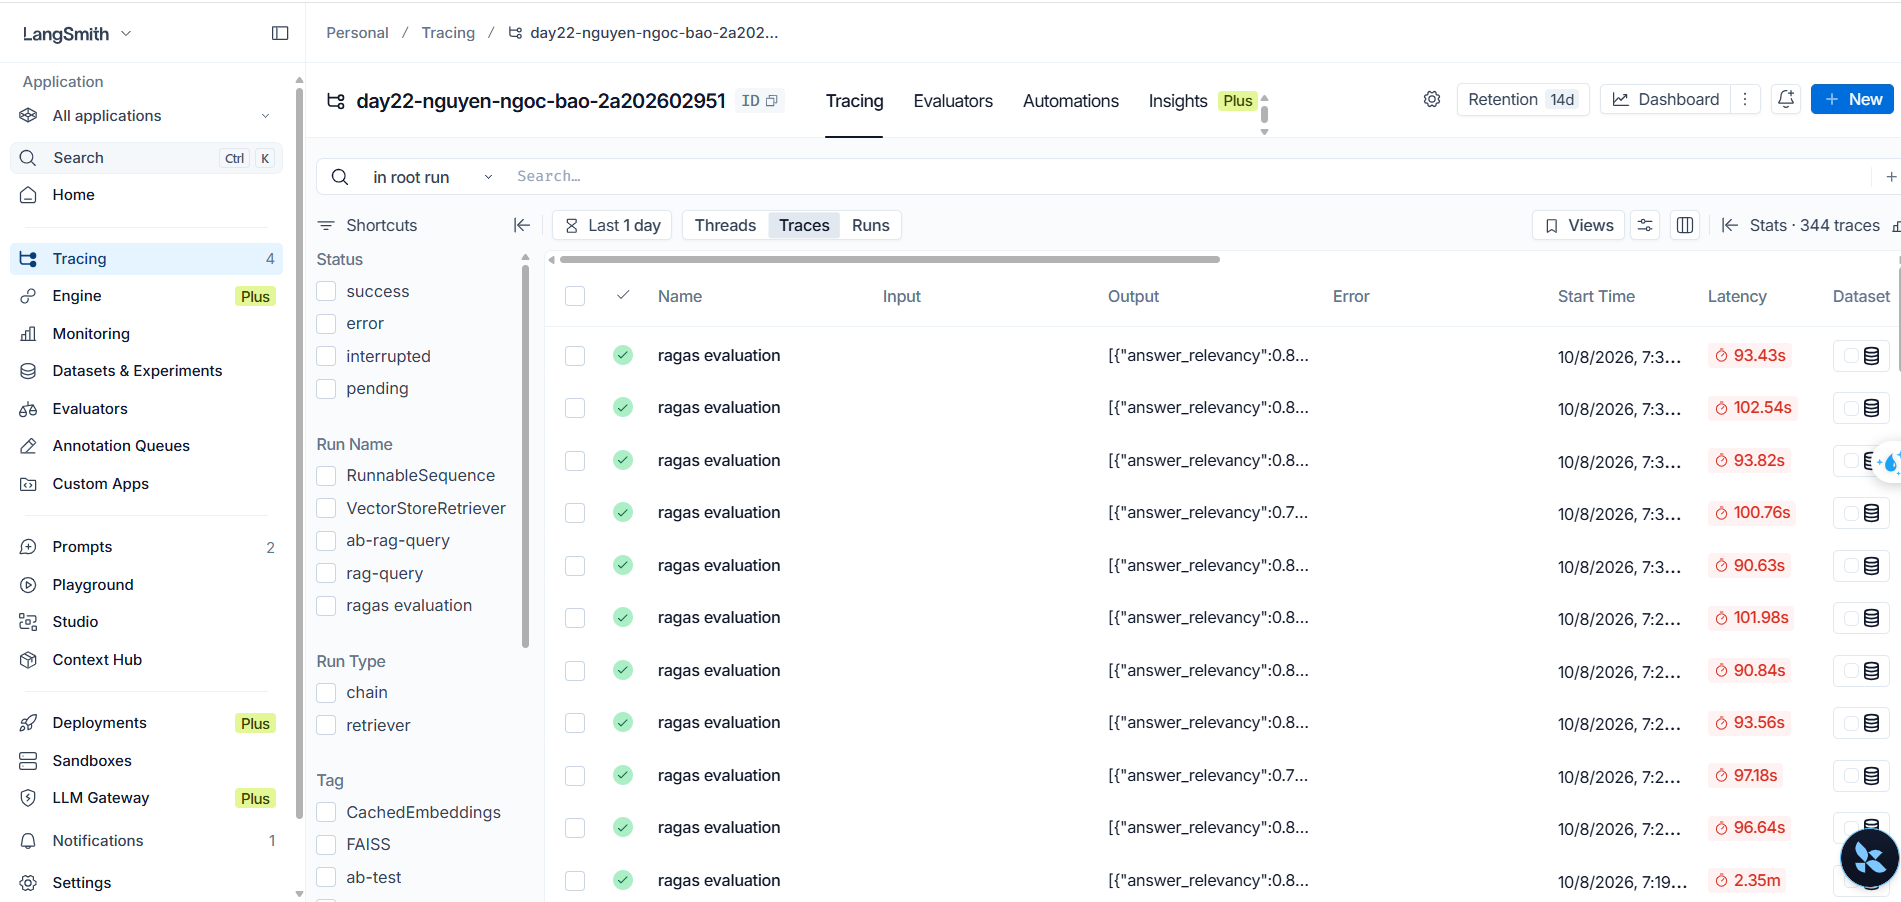
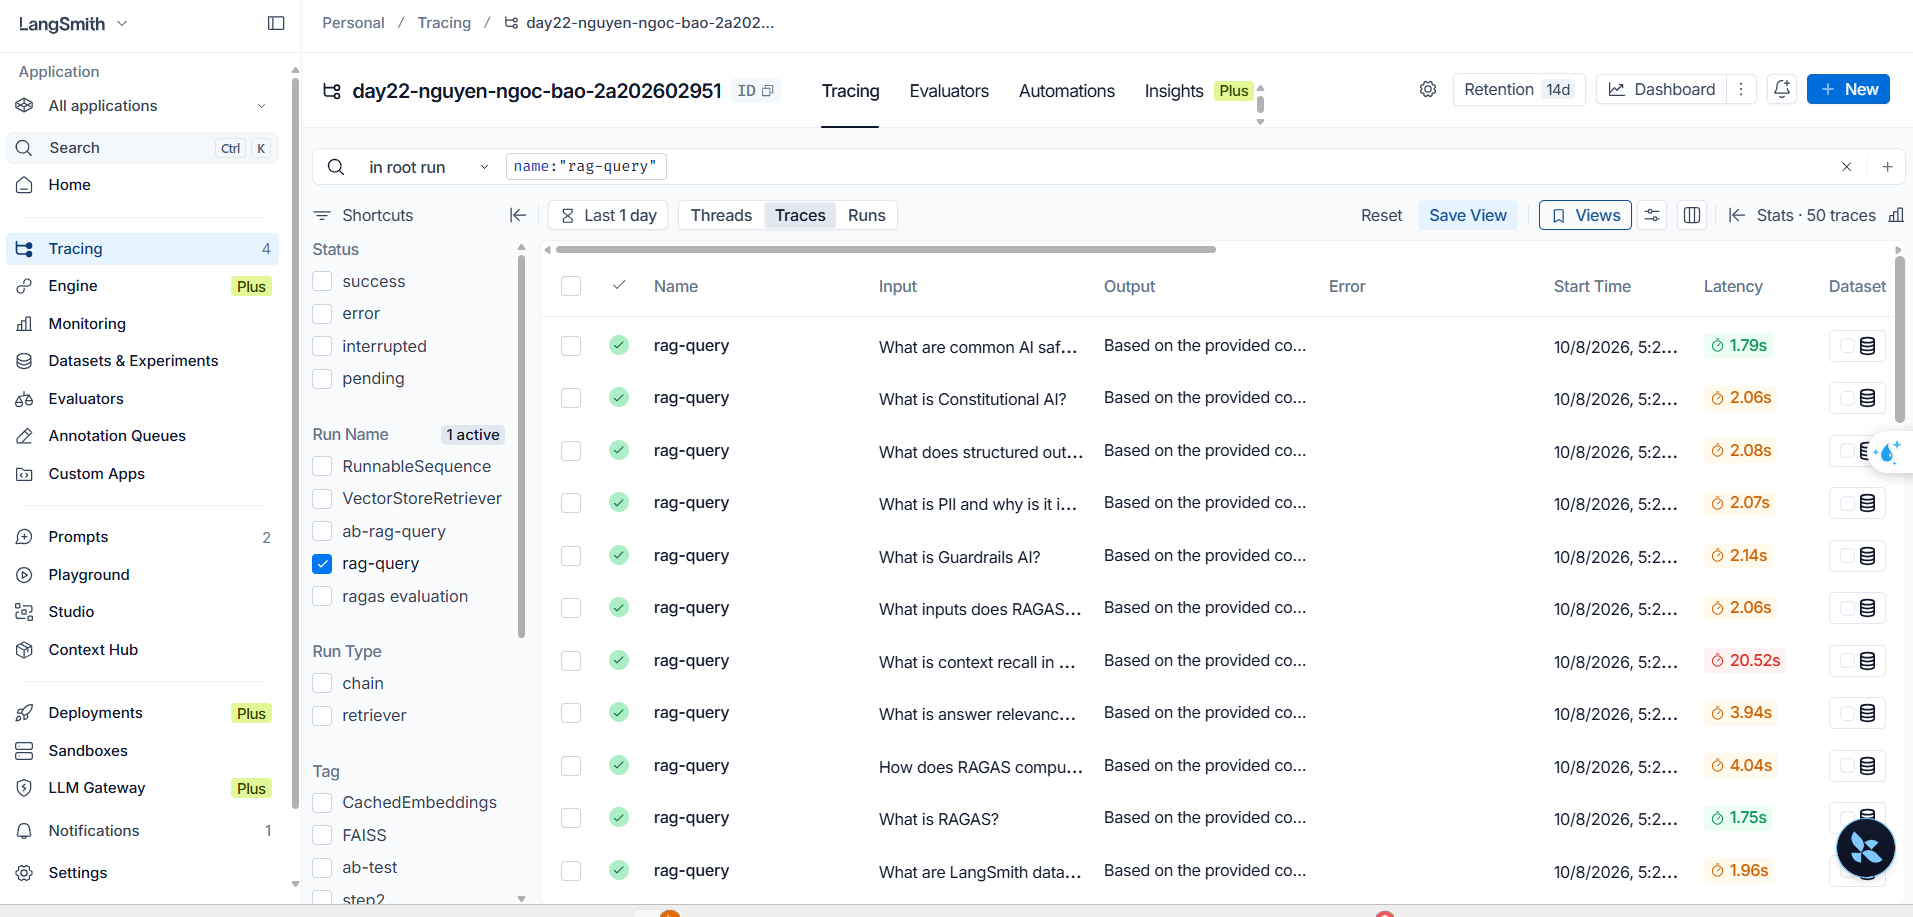
Complete screenshot evidence for 50 RAG traces and named prompts

diff --git a/evidence/README.md b/evidence/README.md
@@ -1,86 +1,93 @@
-# Evidence ? Nguyen Ngoc Bao, 2A202602951
+# Evidence — Nguyen Ngoc Bao, 2A202602951
 
-Ng?y ch?y: 08/10/2026. C?c log v? report trong th? m?c n?y ???c t?o t? l?n
-ch?y th?t; d? li?u PII trong demo l? gi?.
+Ngày chạy: 08/10/2026. Các log và report trong thư mục này được tạo từ lần
+chạy thật; dữ liệu PII trong demo là giả.
 
-## K?t qu? v? tr?ng th?i n?p
+## Kết quả và trạng thái nộp
 
-API x?c nh?n 50 traces `rag-query` v? 50 traces `ab-rag-query` th?nh c?ng,
-kh?ng c? l?i. A/B: V1=19, V2=31; c? 50 traces A/B c? 3 contexts. Trace RAG m?u
-c? question, answer v? retrieval trong run con. Hai prompt ?? ???c pull v?
-??i chi?u kh?p code; commit hashes v? run IDs n?m trong
+API xác nhận 50 traces `rag-query` và 50 traces `ab-rag-query` thành công,
+không có lỗi. A/B: V1=19, V2=31; cả 50 traces A/B có 3 contexts. Trace RAG mẫu
+có question, answer và retrieval trong run con. Hai prompt đã được pull về
+đối chiếu khớp code; commit hashes và run IDs nằm trong
 [01_02_langsmith_api_verification.json](01_02_langsmith_api_verification.json).
 
 LangSmith project: [day22-nguyen-ngoc-bao-2a202602951](https://smith.langchain.com/o/b51ae144-8481-4bf3-87f5-0850afd02c81/projects/p/271813f2-cd09-4b5a-8f77-ed4cf1fe6c7f).
 
-Guardrails ??t 7/7 ca PII v? 7/7 ca JSON. `python -m unittest discover -s tests -v`
-??t 9/9 b?i ki?m th? offline; `pip check` kh?ng ph?t hi?n dependency l?i.
-K?t qu? mock c?a ki?m th? ch? ghi v?o th? m?c t?m, kh?ng d?ng l?m evidence.
+Guardrails đạt 7/7 ca PII và 7/7 ca JSON. `python -m unittest discover -s tests -v`
+đạt 9/9 bài kiểm thử offline; `pip check` không phát hiện dependency lỗi.
+Kết quả mock của kiểm thử chỉ ghi vào thư mục tạm, không dùng làm evidence.
 
 Đã lưu nguyên bản ba ảnh chụp thật do người học cung cấp:
-`01_langsmith_traces.png`, `02_prompt_hub.png` và `03_ragas_scores.png`.
-Ảnh terminal thể hiện đủ
-bốn metric V1/V2 khớp report. Ảnh dashboard thể hiện tên project và 344 traces
-tổng, nhưng các dòng đang hiển thị là `ragas evaluation`; cần bổ sung hoặc
-thay bằng ảnh lọc `rag-query` với ít nhất 50 traces cho checkpoint 1.
-Ảnh prompt hiển thị hai prompt với commit hashes `bf354ca6` (V2) và
-`8d838802` (V1), khớp xác nhận API. Tên bị rút gọn nên cần bổ sung hoặc
-thay bằng ảnh thấy đầy đủ tên và phần `v1`/`v2`.
-Đã đủ bảy tệp evidence; kiểm tra tự động không đánh giá nội dung ảnh.
-JSON xác nhận API là evidence bổ sung,
-không thay ảnh trên dashboard. Chưa nộp lên LMS.
 
-## RAGAS: 50 QA ? hai phi?n b?n
+- [01_langsmith_traces.png](01_langsmith_traces.png): tên project, bộ lọc
+  `name:"rag-query"`, danh sách traces và `Stats · 50 traces`.
+- [02_prompt_hub.png](02_prompt_hub.png): tên đầy đủ
+  `nguyen-ngoc-bao-2a202602951-rag-prompt-v1` và
+  `nguyen-ngoc-bao-2a202602951-rag-prompt-v2`; commit hashes
+  `8d838802` (V1) và `bf354ca6` (V2) khớp xác nhận API.
+- [03_ragas_scores.png](03_ragas_scores.png): bảng terminal với đủ bốn
+  metric V1/V2 khớp report.
 
-Answers ???c t?o b?i `gemini-3.5-flash-lite`; evaluator cu?i l?
-`gemma-4-26b-a4b-it`, `thinking_level=minimal`, qua Google API. C? hai phi?n b?n
-???c ch?m ?? 50 QA b?ng c?ng evaluator. C?c l?n ch?m Gemini tr??c ?? ch?m quota
-500 requests/ng?y; [log l?i quota](03_gemini31_quota_error_log.txt) ???c gi?
-ri?ng. Report cu?i ch? l?y ?i?m c?a l?n ch?m Gemma ho?n ch?nh.
+Ảnh bổ sung [01_langsmith_all_traces.png](01_langsmith_all_traces.png) giữ
+dashboard chưa lọc với 344 traces tổng. Xác nhận API ở trên phân biệt rõ
+50 traces RAG và 50 traces A/B trong tổng số này.
 
-| Metric | V1 | V2 | K?t qu? |
+Đã đủ bảy tệp evidence và đối chiếu trực quan các ảnh. Kiểm tra tự động
+xác nhận tệp, chữ ký PNG, log, report và bảo mật `.env`; không tự đánh giá
+nội dung ảnh. JSON xác nhận API là evidence bổ sung, không thay ảnh dashboard.
+Chưa nộp lên LMS.
+
+## RAGAS: 50 QA ở hai phiên bản
+
+Answers được tạo bởi `gemini-3.5-flash-lite`; evaluator cuối là
+`gemma-4-26b-a4b-it`, `thinking_level=minimal`, qua Google API. Cả hai phiên bản
+được chấm đủ 50 QA bằng cùng evaluator. Các lần chấm Gemini trước đó chạm quota
+500 requests/ngày; [log lỗi quota](03_gemini31_quota_error_log.txt) được giữ
+riêng. Report cuối chỉ lấy điểm của lần chấm Gemma hoàn chỉnh.
+
+| Metric | V1 | V2 | Kết quả |
 |---|---:|---:|---|
-| Faithfulness | 1.0000 | 0.9801 | V1 cao h?n |
-| Answer relevancy | 0.8480 | 0.8453 | V1 nh?nh h?n |
-| Context recall | 1.0000 | 1.0000 | B?ng nhau |
-| Context precision | 0.9600 | 0.9600 | B?ng nhau |
+| Faithfulness | 1.0000 | 0.9801 | V1 cao hơn |
+| Answer relevancy | 0.8480 | 0.8453 | V1 nhỉnh hơn |
+| Context recall | 1.0000 | 1.0000 | Bằng nhau |
+| Context precision | 0.9600 | 0.9600 | Bằng nhau |
 
-C? hai ??t m?c ti?u faithfulness ?0.8. ?? ??i chi?u report evidence v?i b?n trong
-`data/` v? t?nh l?i trung b?nh t? ?? 50 ?i?m h?u h?n cho m?i metric.
+Cả hai đạt mục tiêu faithfulness ≥0.8. Đã đối chiếu report evidence với bản trong
+`data/` và tính lại trung bình từ đủ 50 điểm hữu hạn cho mỗi metric.
 Report: [03_ragas_report.json](03_ragas_report.json).
-Log b?ng so s?nh: [03_ragas_evaluation_log.txt](03_ragas_evaluation_log.txt).
+Log bảng so sánh: [03_ragas_evaluation_log.txt](03_ragas_evaluation_log.txt).
 
-## Ph?n t?ch V1 v? V2
+## Phân tích V1 và V2
 
-V1 tr? l?i tr?c ti?p, ng?n g?n; V2 t? ch?c c?u tr? l?i theo ??nh ngh?a/k?t lu?n,
-c? ch? v? c?c ph?n ph?n bi?t. C? hai ch? d?ng context. Trong 50 c?p answers,
-?? d?i trung b?nh theo s? t? t?ch b?ng kho?ng tr?ng l? 44,4 ? V1 v? 83,8 ? V2.
-C? 50 c?u h?i nh?n c?ng contexts ? hai phi?n b?n. Context recall/precision d?ng
-c?ng question, reference v? contexts; cache l?u ph?n h?i judge th?t cho c?c
-??u v?o tr?ng nhau, n?n hai ch? s? context b?ng nhau.
+V1 trả lời trực tiếp, ngắn gọn; V2 tổ chức câu trả lời theo định nghĩa/kết luận,
+cơ chế và các phần phân biệt. Cả hai chỉ dùng context. Trong 50 cặp answers,
+độ dài trung bình theo số từ tách bằng khoảng trắng là 44,4 ở V1 và 83,8 ở V2.
+Cả 50 câu hỏi nhận cùng contexts ở hai phiên bản. Context recall/precision dùng
+cùng question, reference và contexts; cache lưu phản hồi judge thật cho các
+đầu vào trùng nhau, nên hai chỉ số context bằng nhau.
 
-V1 l? l?a ch?n m?c ??nh h?p l? cho b? c?u h?i ??nh ngh?a trong lab: c?u tr? l?i
-ng?n h?n, faithfulness cao h?n v? relevancy nh?nh h?n. Ch?nh l?ch relevancy
-kho?ng 0,0027 c?n nh?; ch?a c? ??nh gi? l?p l?i ho?c ki?m ??nh ?? k?t lu?n kh?c
-bi?t n?y c? ? ngh?a th?ng k?. V2 h?u ?ch khi c?n tr?nh b?y c? ch? v? nhi?u ph?n
-r? r?ng, nh?ng trong b? n?y n?i dung d?i h?n ch?a gi?p t?ng ?i?m trung b?nh.
+V1 là lựa chọn mặc định hợp lý cho bộ câu hỏi định nghĩa trong lab: câu trả lời
+ngắn hơn, faithfulness cao hơn và relevancy nhỉnh hơn. Chênh lệch relevancy
+khoảng 0,0027 còn nhỏ; chưa có đánh giá lặp lại hoặc kiểm định để kết luận khác
+biệt này có ý nghĩa thống kê. V2 hữu ích khi cần trình bày cơ chế và nhiều phần
+rõ ràng, nhưng trong bộ này nội dung dài hơn chưa giúp tăng điểm trung bình.
 
-V? d? QA19 (chain-of-thought): V1 n?u ??nh ngh?a v? c?c b??c trung gian; V2 th?m
-c? ch?, t?c ??ng v? bi?n th? zero-shot t? context. QA33 (LangGraph): V2 th?m
-observability ngo?i directed graph v? cycles m? V1 ?? n?u. ??y l? c?c v? d?
-cho s? kh?c bi?t phong c?ch, kh?ng ph?i b?ng ch?ng c?u tr? l?i d?i lu?n t?t h?n.
+Ví dụ QA19 (chain-of-thought): V1 nêu định nghĩa và các bước trung gian; V2 thêm
+cơ chế, tác động và biến thể zero-shot từ context. QA33 (LangGraph): V2 thêm
+observability ngoài directed graph và cycles mà V1 đã nêu. Đây là các ví dụ
+cho sự khác biệt phong cách, không phải bằng chứng câu trả lời dài luôn tốt hơn.
 
-QA20 c? faithfulness V2 b?ng 2/3: judge ch?p nh?n hai kh?ng ??nh v? th?ng tin
-trong dataset nh?ng ??nh d?u c?u k?t ?context does not establish any further
-specifications? l? suy lu?n v? th?ng tin v?ng m?t. Chi ti?t verdict th?t:
+QA20 có faithfulness V2 bằng 2/3: judge chấp nhận hai khẳng định về thông tin
+trong dataset nhưng đánh dấu câu kết “context does not establish any further
+specifications” là suy luận về thông tin vắng mặt. Chi tiết verdict thật:
 [03_qa20_faithfulness_detail.json](03_qa20_faithfulness_detail.json).
-V?i l?n c?i ti?n ti?p theo, V2 n?n ch? th?m c?u n?i thi?u th?ng tin khi th?c s?
-kh?ng tr? l?i ???c c?u h?i. ??y c?ng l? v? d? c?n ??c verdict v? context c?ng
-?i?m s? thay v? coi m?t metric l? k?t lu?n tuy?t ??i.
+Với lần cải tiến tiếp theo, V2 nên chỉ thêm câu nói thiếu thông tin khi thực sự
+không trả lời được câu hỏi. Đây cũng là ví dụ cần đọc verdict và context cùng
+điểm số thay vì coi một metric là kết luận tuyệt đối.
 
-C?c ?i?m ph? thu?c v?o judge v? 50 QA c?a lab. `answer_relevancy` d?ng
-`strictness=1` do gi?i h?n candidate c?a Google API; m?t c?u h?i t?ng h?p c?
-th? l?m ?i?m bi?n ??ng h?n m?c ??nh 3. Reference ch? ???c d?ng trong ??nh gi?,
-kh?ng ??a v?o prompt RAG ?? t?o answer. Ch?a ki?m tra m?t t?p c?u h?i ??c l?p.
+Các điểm phụ thuộc vào judge và 50 QA của lab. `answer_relevancy` dùng
+`strictness=1` do giới hạn candidate của Google API; một câu hỏi tổng hợp có
+thể làm điểm biến động hơn mặc định 3. Reference chỉ được dùng trong đánh giá,
+không đưa vào prompt RAG để tạo answer. Chưa kiểm tra một tập câu hỏi độc lập.
 
-H??ng d?n ch?y v? ch?p ?nh: [HUONG_DAN_CHAY.md](../HUONG_DAN_CHAY.md).
+Hướng dẫn chạy và chụp ảnh: [HUONG_DAN_CHAY.md](../HUONG_DAN_CHAY.md).

diff --git a/README.md b/README.md
@@ -38,12 +38,10 @@ Cả hai đạt faithfulness ≥0.8. [Report thật](evidence/03_ragas_report.js
 và bộ 50 QA của lab; `answer_relevancy` dùng `strictness=1`.
 
 **Đã có đủ bảy tệp evidence:** đã lưu ba ảnh chụp thật do người học cung cấp:
-`01_langsmith_traces.png` (dashboard có 344 traces tổng) và
-`03_ragas_scores.png` (bảng điểm V1/V2) và `02_prompt_hub.png` (hai prompt
-với commit hashes khớp xác nhận API). Tên prompt trong ảnh bị rút gọn;
-nên bổ sung hoặc thay bằng ảnh thấy đầy đủ tên và phần `v1`/`v2`.
-Ảnh traces hiện hiển thị các dòng `ragas evaluation`; cần bổ sung hoặc thay
-bằng ảnh lọc `rag-query` thể hiện ít nhất 50 traces cho checkpoint 1.
+`01_langsmith_traces.png` (dashboard lọc `rag-query`, hiện 50 traces),
+`02_prompt_hub.png` (tên đầy đủ của hai prompt V1/V2 và commit hashes
+khớp xác nhận API) và `03_ragas_scores.png` (bảng điểm V1/V2).
+Các ảnh đã được đối chiếu trực quan; kiểm tra tự động bộ evidence đạt.
 Chưa nộp lên LMS.
 
 ## Tổng quan
